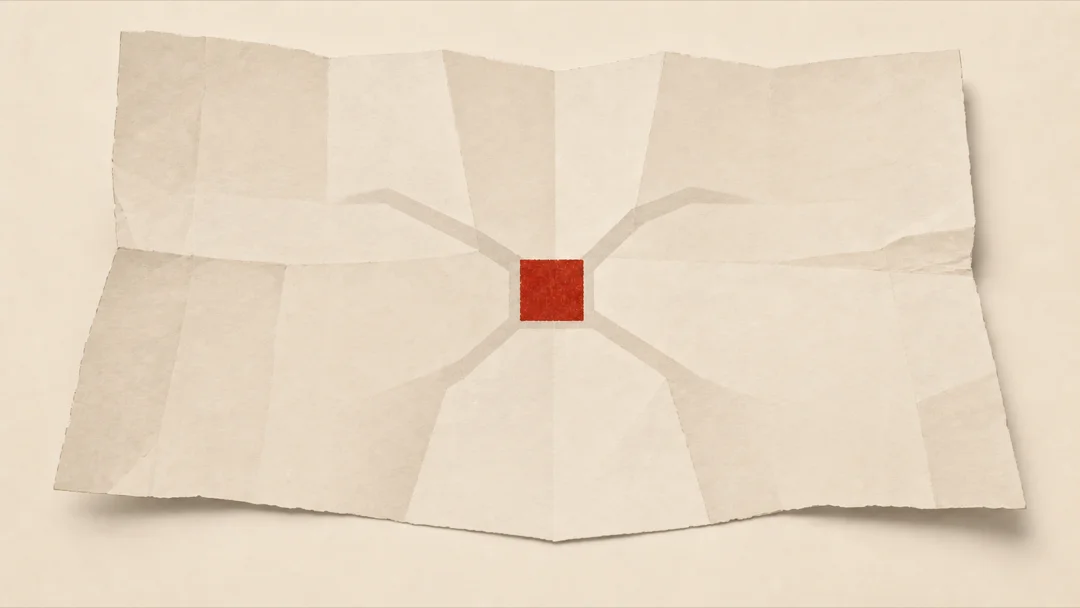
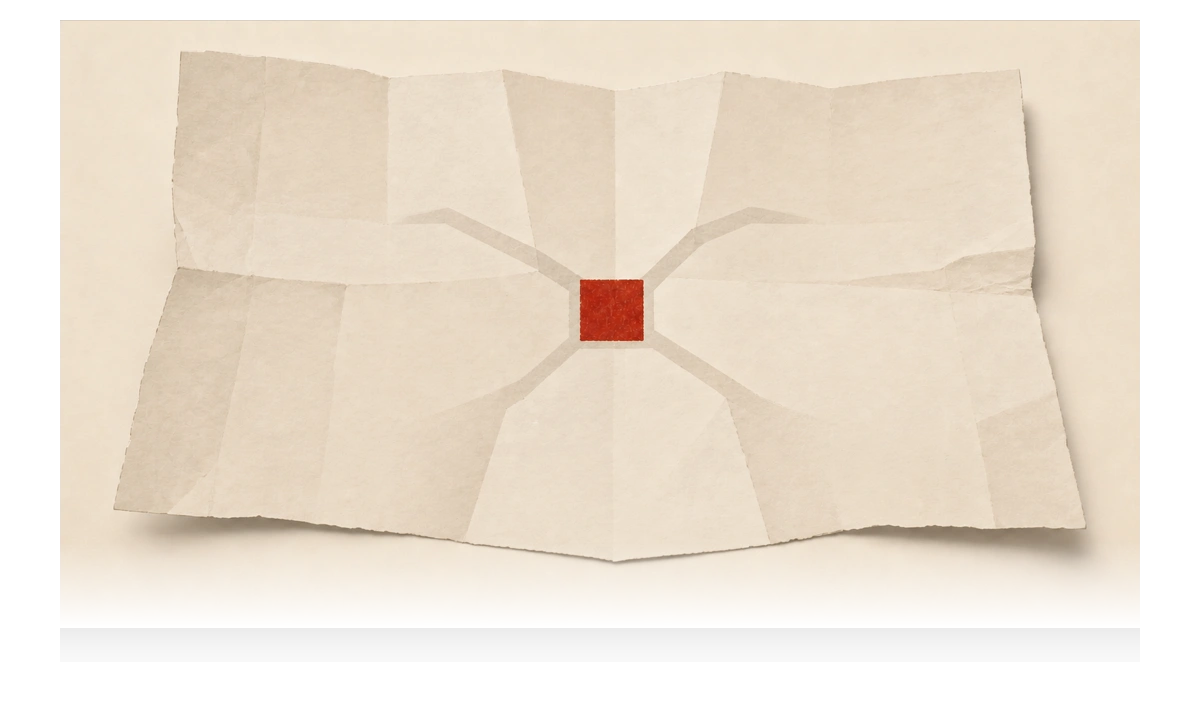
折页地图的阴影与底部渐隐烘焙进图片素材,CSS 移除 drop-shadow+mask:消除展开动画 8 倍缩放中滤镜反复重光栅化导致的掉帧(实测 CSS 滤镜版每轮动画必有 38ms 尖峰,烘焙版 120Hz 满帧 8-9ms);预取升级为预解码(img.decode)

diff --git a/website/style.css b/website/style.css
@@ -217,7 +217,7 @@ html[data-theme] .mascot-three { opacity: 0; transform: translate(-50%, -50%) sc
 
 .release-layer { overflow: visible; border: 0; background: transparent; }
 .release-map { position: absolute; inset: -7% -10%; isolation: isolate; }
-.release-map-paper { position: absolute; z-index: 0; inset: 0; width: 100%; height: 100%; object-fit: contain; filter: drop-shadow(0 34px 42px rgba(53,39,25,.2)); -webkit-mask-image: linear-gradient(to bottom, #000 0%, #000 86%, transparent 100%); mask-image: linear-gradient(to bottom, #000 0%, #000 86%, transparent 100%); transform-origin: 50% 52%; will-change: opacity, transform; }
+.release-map-paper { position: absolute; z-index: 0; inset: 0; width: 100%; height: 100%; object-fit: contain; transform-origin: 50% 52%; will-change: opacity, transform; } /* 阴影与底部渐隐已烘焙进图片素材,勿再加 filter/mask——展开动画缩放时会反复重光栅化导致掉帧 */
 .release-destination { position: absolute; z-index: 2; display: grid; place-items: center; width: 25%; height: 27%; padding: 0 1.5% 2.4%; color: #2d2823; text-align: center; pointer-events: none; transform-origin: center; transition: transform .4s var(--ease-smooth-out), color .24s ease; }
 .release-destination > img { display: block; width: 78%; height: 80%; object-fit: contain; filter: drop-shadow(0 8px 7px rgba(37,29,22,.1)); transition: transform .4s var(--ease-smooth-out), filter .4s ease; }
 .release-title { position: absolute; left: 0; right: 0; bottom: 0; font-size: clamp(14px, 1.55vw, 25px); font-weight: 540; letter-spacing: .025em; transition: transform .38s var(--ease-smooth-out), opacity .22s ease; }

diff --git a/website/app.js b/website/app.js
@@ -235,7 +235,12 @@ let sceneFourPreloaded = false;
 const preloadSceneFour = () => {
   if (sceneFourPreloaded) return;
   sceneFourPreloaded = true;
-  ['第四幕-折页地图-v1', '第四幕-下载纸签-v4', '第四幕-Webi动作-QA-v1', '第四幕-Webi动作-Labs-v1', '第四幕-Webi动作-官方群-v1', '第四幕-Webi动作-反馈-v1', 'Webi-第四幕-下载'].forEach(name => { new Image().src = `assets/${name}.webp`; });
+  ['第四幕-折页地图-v1', '第四幕-下载纸签-v4', '第四幕-Webi动作-QA-v1', '第四幕-Webi动作-Labs-v1', '第四幕-Webi动作-官方群-v1', '第四幕-Webi动作-反馈-v1', 'Webi-第四幕-下载'].forEach(name => {
+    const img = new Image();
+    img.decoding = 'async';
+    img.src = `assets/${name}.webp`;
+    img.decode().catch(() => {}); // 提前解码,避免进入第四幕时解码撞上展开动画
+  });
 };
 const observer = new IntersectionObserver(entries => {
   entries.forEach(entry => ratios.set(entry.target, entry.intersectionRatio));
